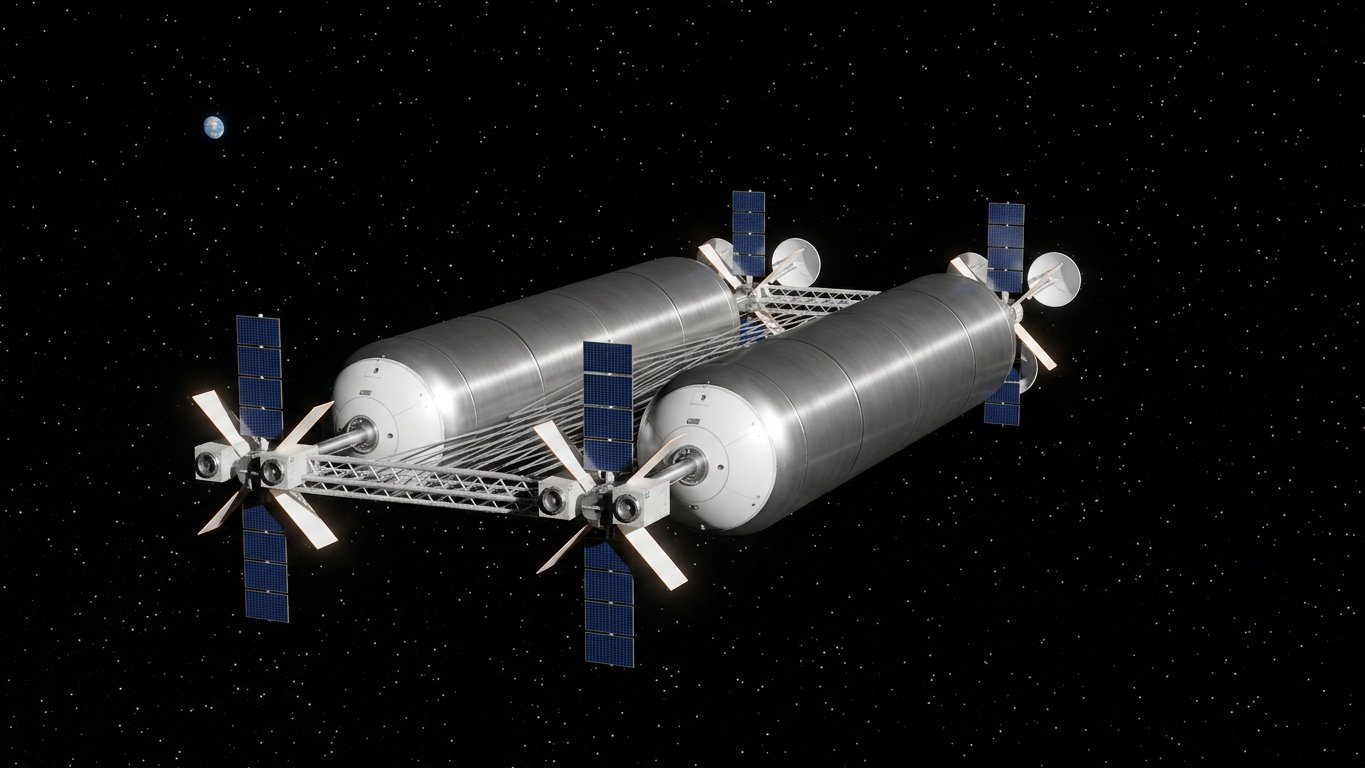
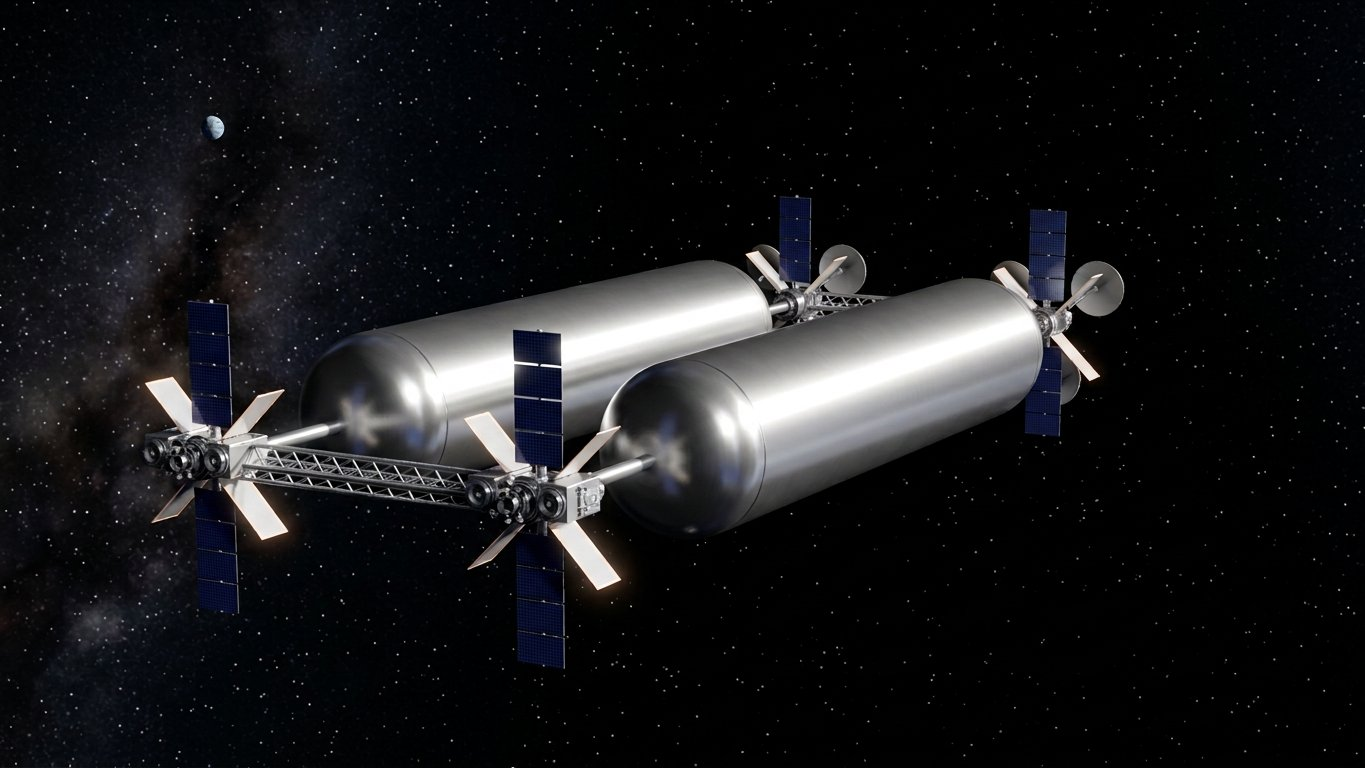
внешний вид: кинематографичная подача поверх точной геометрии

Changed region(s): [[0.0, 0.125, 0.8308, 0.9688], [0.1846, 0.0, 0.2769, 0.1562]]

diff --git a/NOTES.md b/NOTES.md
@@ -1350,3 +1350,14 @@ diameter, NOT barrel, parallel side by side, joined only by central truss.
 6. **Антенны — только на кормовых узлах**, тарелками на Землю.
 7. Запрет текста: NO TEXT / LETTERING / LOGOS / NUMBERS.
 8. Всё навесное — ТОЛЬКО на подшипниковых узлах.
+
+### Рабочий приём для плакатного вида (08.09.2026)
+
+Словесные описания компоновки генератор нарушает. Устойчиво работает
+связка: `render3d.py` -> `_ref3d.png` (точная геометрия) -> генератор
+изображений с ДВУМЯ образцами:
+  1) наш рендер — «структурный чертёж, копировать точно»;
+  2) референс красоты — «только качество света и детализации».
+Ракурс правится числом `eye=` в render3d.py, а не словами в промпте.
+Балку надо описывать через отрицание: «в промежутке между корпусами
+НЕТ ничего, там чистый чёрный космос».
